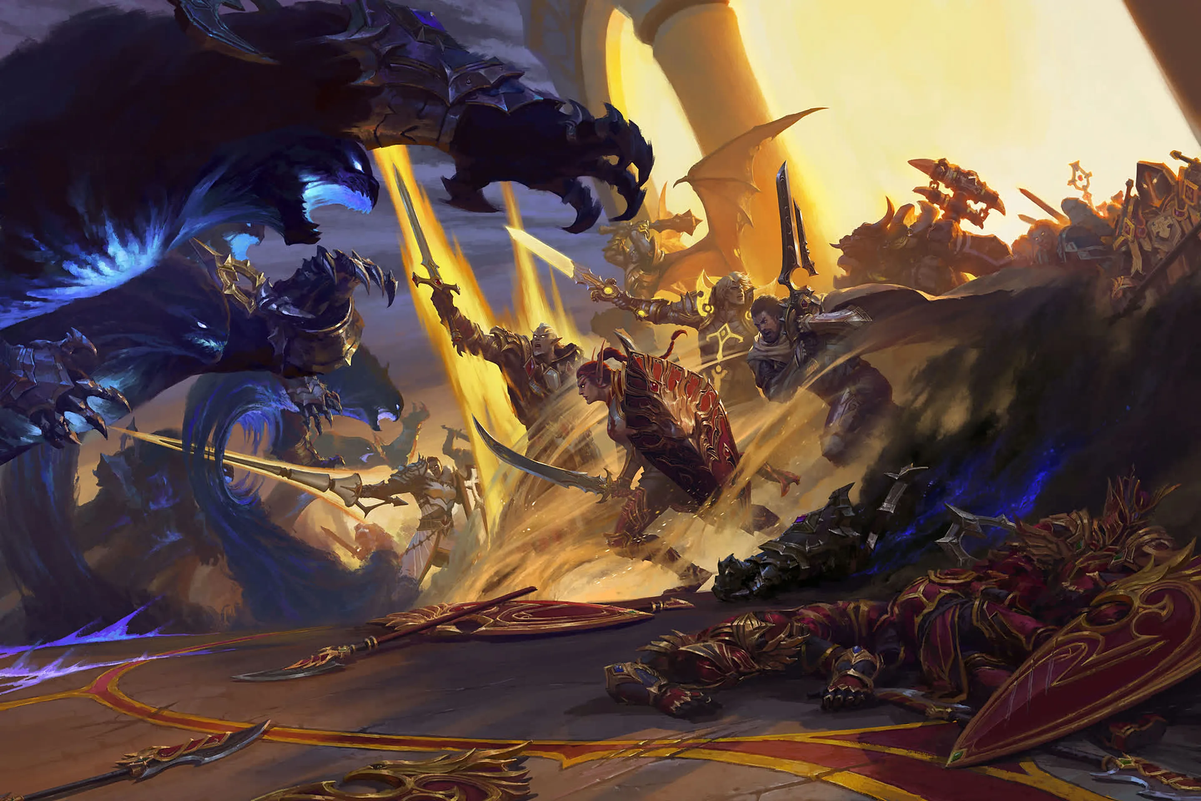
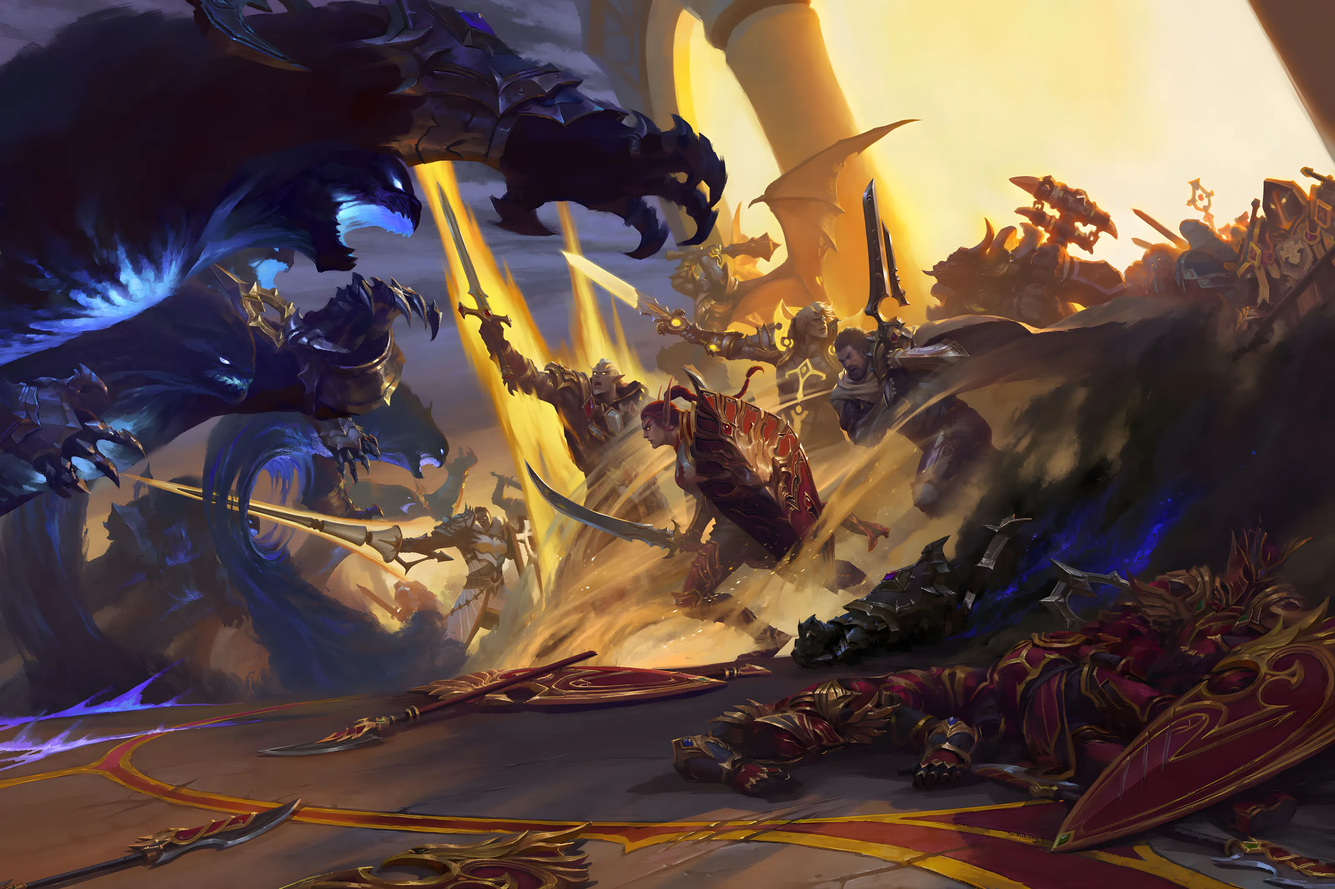
WipeHub 2.15: fondo reescalado con IA para que se vea nitido y sin pixelar

Changed region(s): [[0.875, 0.875, 0.9062, 0.9062], [0.5312, 0.4375, 0.5625, 0.4688], [0.4062, 0.75, 0.4375, 0.7812]]

diff --git a/src/changelog.js b/src/changelog.js
@@ -5,7 +5,7 @@
 // Se numera con la última versión del grupo. Los cambios que solo tocan colores, tamaños o ajustes internos no se cuentan.
 // Estructura: { v, date, es: { intro, sections: [[icono, título, [viñetas]]] }, en: { ... } }
 const RELEASES = [
-  { v: '2.14.0', date: '2026-10-29',
+  { v: '2.15.0', date: '2026-10-29',
     es: { intro: 'Los personajes muestran su nivel y su Ilvl con el color de su equipo y se pueden ordenar, el panel del parche 12.1.7 se completa y los cambios de clase llegan hasta el 27 de octubre.', sections: [
       ['achievement_bg_winwsg', 'Personajes', [
         'Cada tarjeta muestra el nivel del personaje (en un color neutro) y su Ilvl, coloreado como un parse según el equipo: verde si todo es verde, azul si hay piezas azules, morado si todo es épico Normal/Heroico y rosa (parse 99) si todo es Mítico. Las crafteadas con blasones míticos cuentan como Míticas.',
